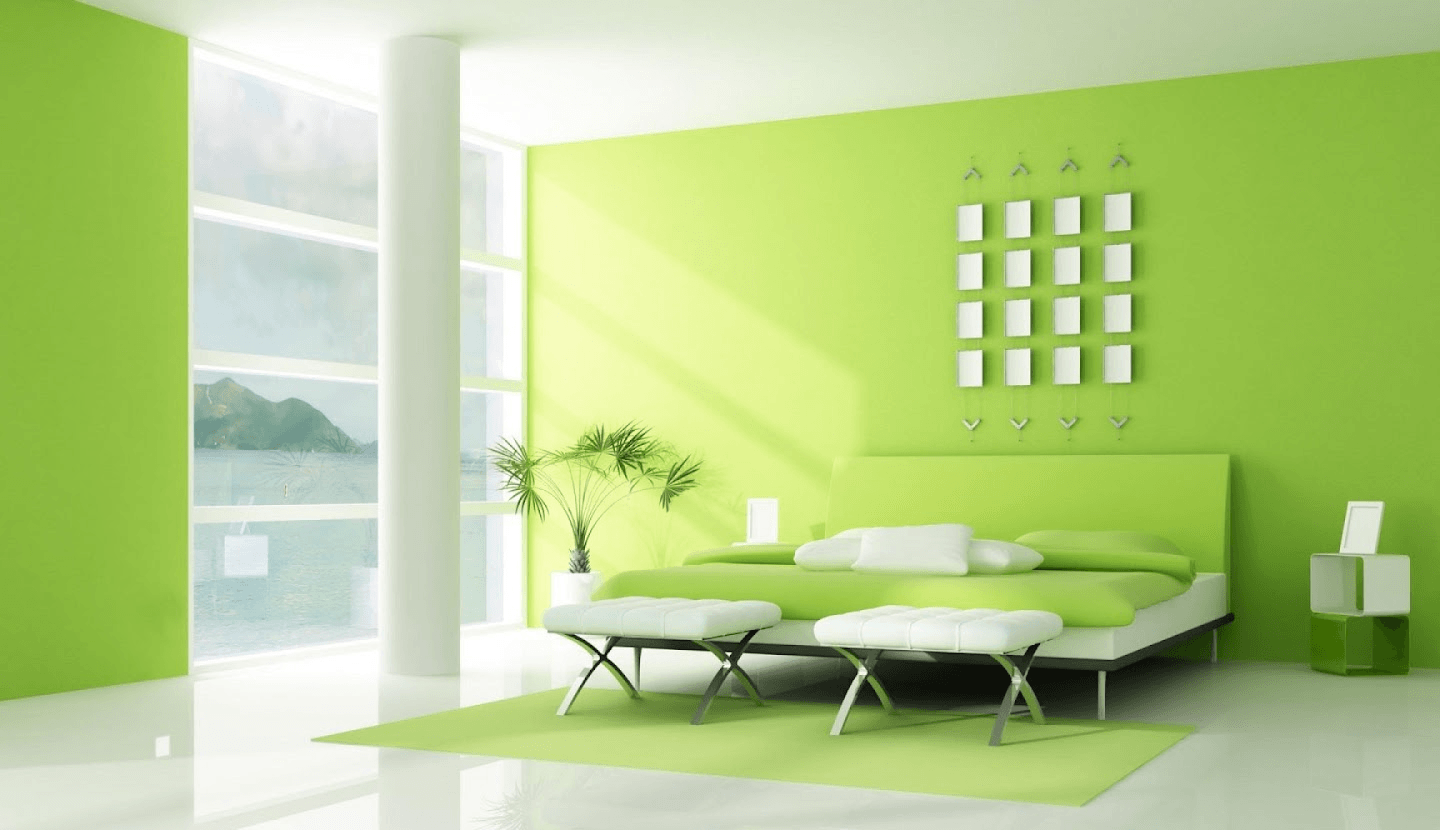
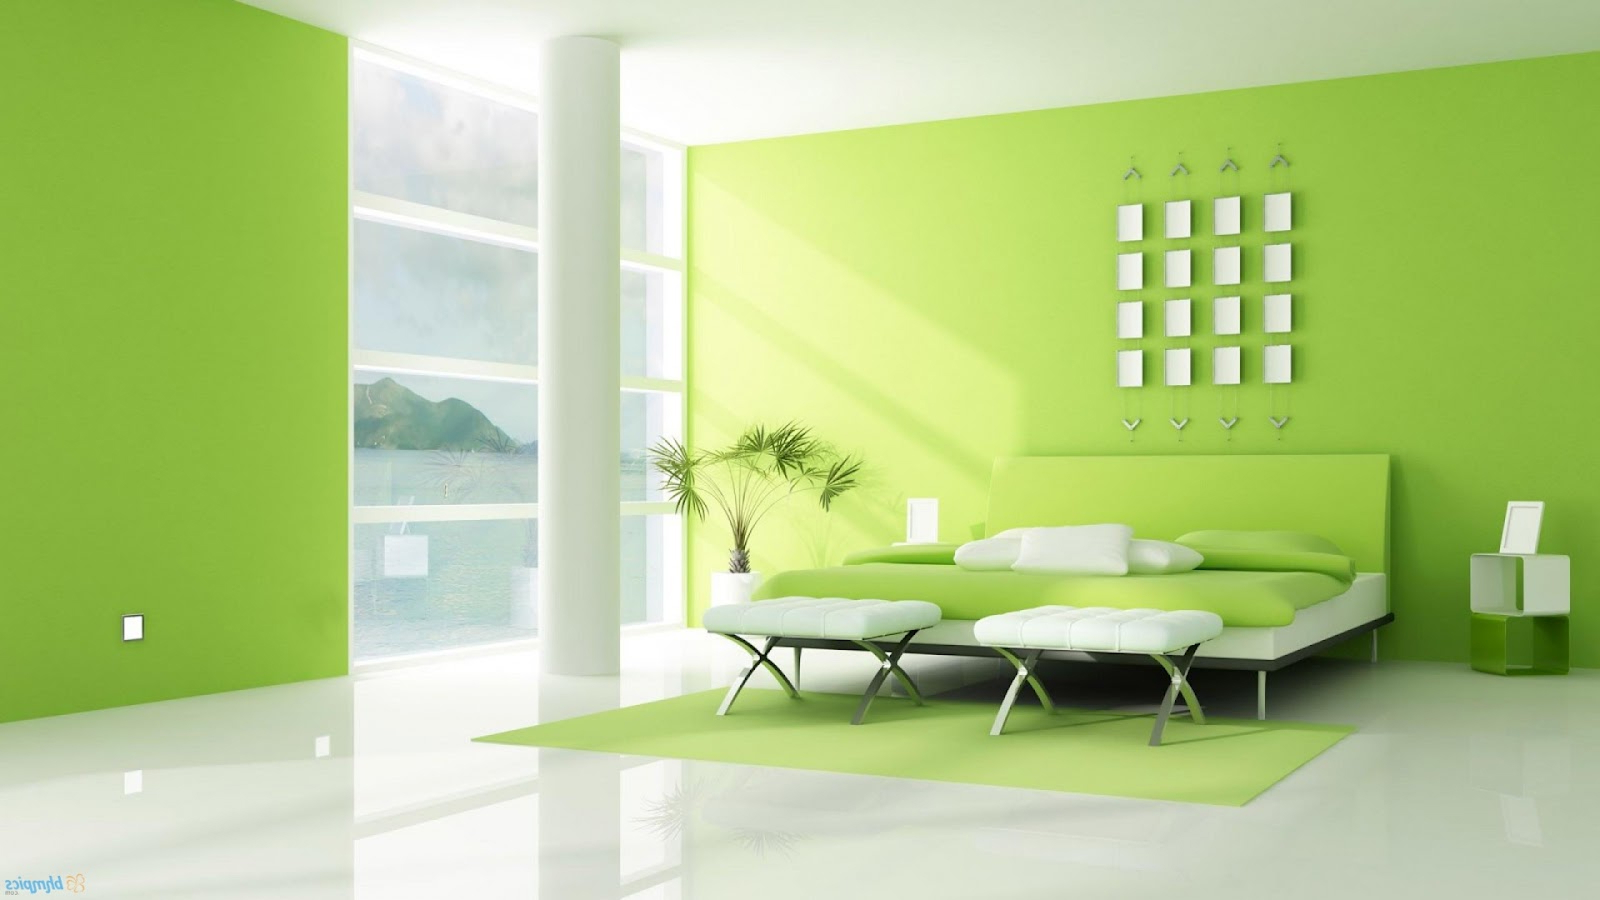
fix: change background images and their positions on landing page

diff --git a/src/components/layout/landing/_landing.scss b/src/components/layout/landing/_landing.scss
@@ -8,19 +8,19 @@
   width: 100%;
   min-height: 829px;
   background-image:
-    url('Assets/images/background/background_main.jpg'),
+    url('Assets/images/background/background-main.jpg'),
     url('Assets/images/background/background1.jpg'),
     url('Assets/images/background/background_green.jpg');
-  background-position: 0 100%;
+  background-position: 50% 68%;
   background-repeat: no-repeat;
   padding-left: 140px;
   padding-top: 70px;
   position: relative;
-  // animation-name: background-switch;
-  // animation-duration: 30s;
-  // animation-iteration-count: infinite;
-  // animation-timing-function: linear;
-  // animation-fill-mode: forwards;
+  animation-name: background-switch;
+  animation-duration: 30s;
+  animation-iteration-count: infinite;
+  animation-timing-function: linear;
+  animation-fill-mode: forwards;
   & .tagline {
     width: 297px;
     text-align: right;
@@ -31,33 +31,43 @@
 }
 @keyframes background-switch {
   0% {
-    background-image: url('Assets/images/background/background_main.jpg');
+    background-image: url('Assets/images/background/background-main.jpg');
+    background-position: 50% 68%;
   }
   10% {
-    background-image: url('Assets/images/background/background_main.jpg');
+    background-image: url('Assets/images/background/background-main.jpg');
+    background-position: 50% 68%;
   }
   25% {
-    background-image: url('Assets/images/background/background_main.jpg');
+    background-image: url('Assets/images/background/background-main.jpg');
+    background-position: 50% 68%;
   }
   33% {
     background-image: url('Assets/images/background/background1.jpg');
+    background-position: 100% 68%;
   }
   45% {
     background-image: url('Assets/images/background/background1.jpg');
+    background-position: 100% 68%;
   }
   58% {
     background-image: url('Assets/images/background/background1.jpg');
+    background-position: 100% 68%;
   }
   66% {
     background-image: url('Assets/images/background/background_green.jpg');
+    background-position: 100% 0%;
   }
   85% {
     background-image: url('Assets/images/background/background_green.jpg');
+    background-position: 100% 0%;
   }
   92% {
     background-image: url('Assets/images/background/background_green.jpg');
+    background-position: 100% 0%;
   }
   100% {
-    background-image: url('Assets/images/background/background_main.jpg');
+    background-image: url('Assets/images/background/background-main.jpg');
+    background-position: 100% 0%;
   }
 }

diff --git a/src/pages/login/_login.scss b/src/pages/login/_login.scss
@@ -35,19 +35,20 @@
   width: 100%;
   background-image:
     url('Assets/images/background/background-login.jpg'),
-    url('Assets/images/background/background-main-login.jpg');
-  background-position: 0 100%;
+    url('Assets/images/background/background-main.jpg');
+  background-position: -44px -236px;
   background-repeat: no-repeat;
   padding: 20px;
   position: relative;
-  animation-name: background-switch;
-  animation-duration: 30s;
-  animation-iteration-count: infinite;
-  animation-timing-function: linear;
-  animation-fill-mode: forwards;
+  // animation-name: background-switch;
+  // animation-duration: 30s;
+  // animation-iteration-count: infinite;
+  // animation-timing-function: linear;
+  // animation-fill-mode: forwards;
   .enter-form {
-    margin-top: 172px;
-    margin-bottom: 172px;
+    margin-top: 152px;
+    margin-bottom: 152px;
+    padding-bottom: 32px;
   }
   .reg-form {
     translate: 3px 0;
@@ -63,10 +64,10 @@
     background-image: url('Assets/images/background/background-login.jpg');
   }
   50% {
-    background-image: url('Assets/images/background/background-main-login.jpg');
+    background-image: url('Assets/images/background/background-main.jpg');
   }
   75% {
-    background-image: url('Assets/images/background/background-main-login.jpg');
+    background-image: url('Assets/images/background/background-main.jpg');
   }
   100% {
     background-image: url('Assets/images/background/background-login.jpg');

diff --git a/src/pages/search/search.js b/src/pages/search/search.js
@@ -1,6 +1,6 @@
 import './search.scss';
-import '../../components/blocks/pagination/_paginat';
-import '../../components/blocks/datepicker/_filterdate';
-import '../../components/blocks/dropdown/_dropdown-guest';
-import '../../components/blocks/range-slider/_range-slider';
-import '../../components/blocks/buttons/checkbox/expandable/_expandable';
+import 'Components/blocks/pagination/_paginat';
+import 'Components/blocks/datepicker/_filterdate';
+import 'Components/blocks/dropdown/_dropdown-guest';
+import 'Components/blocks/range-slider/_range-slider';
+import 'Components/blocks/buttons/checkbox/expandable/_expandable';
